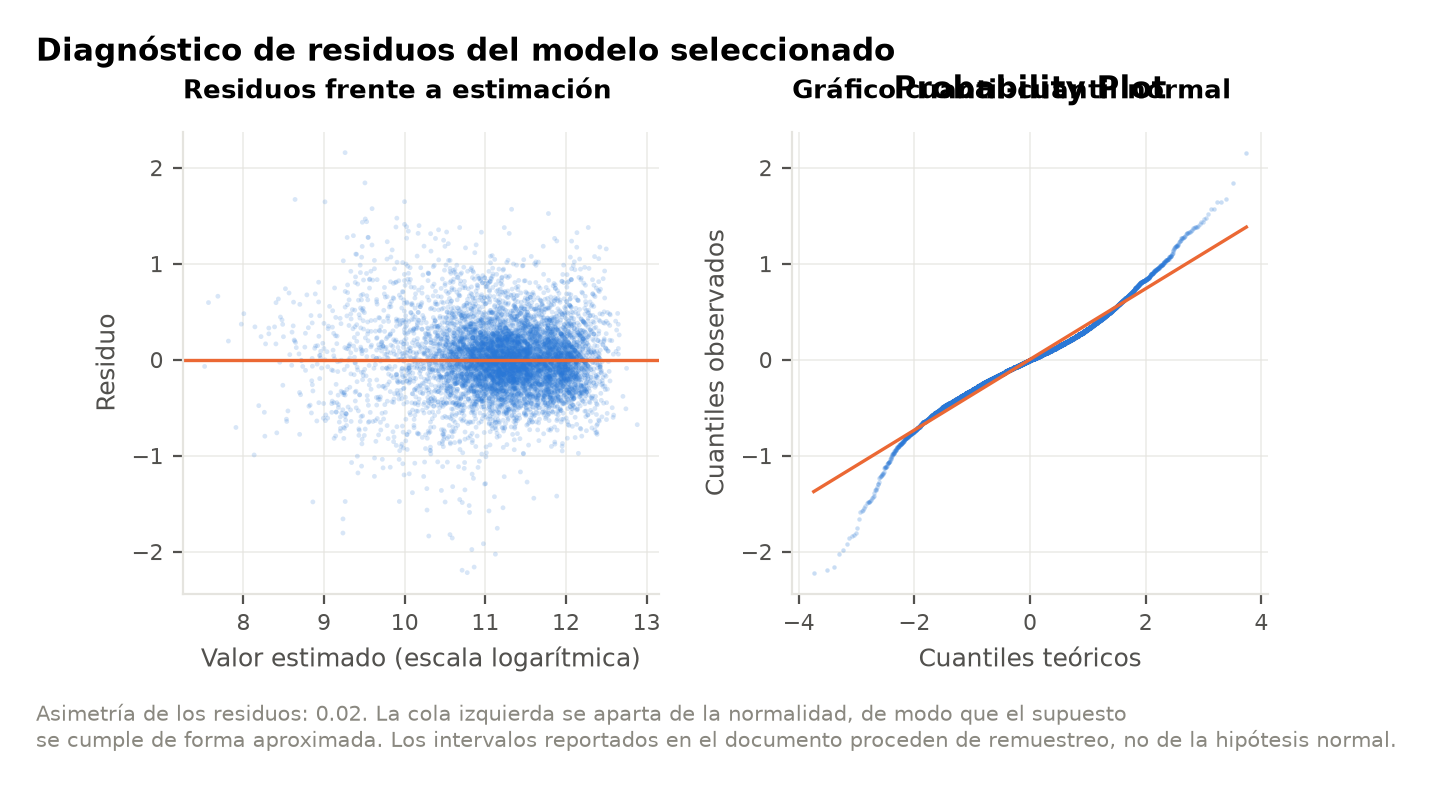
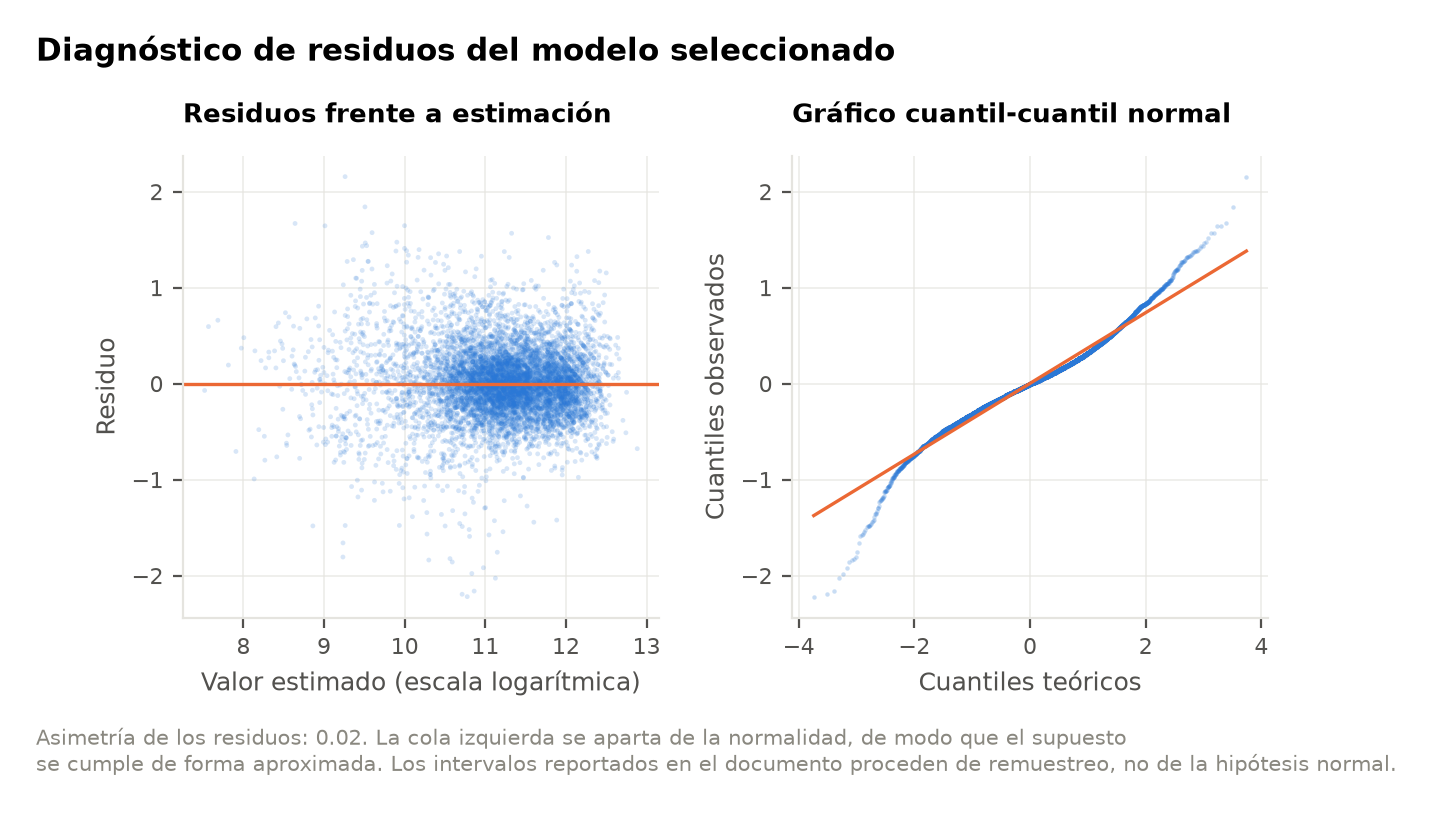
fix: título superpuesto en el gráfico cuantil-cuantil de la figura de residuos

diff --git a/scripts/generar_figuras.py b/scripts/generar_figuras.py
@@ -383,6 +383,8 @@ def fig_residuos(salida, df, resultados: Path):
     ax2.get_lines()[0].set(marker="o", markersize=1.6, alpha=0.25,
                            color=AZUL, markeredgecolor="none")
     ax2.get_lines()[1].set(color=NARANJA, linewidth=1.2)
+    # probplot escribe su propio título centrado («Probability Plot»).
+    ax2.set_title("")
     ax2.set_title("Gráfico cuantil-cuantil normal", loc="left", fontsize=9.5)
     ax2.set_xlabel("Cuantiles teóricos")
     ax2.set_ylabel("Cuantiles observados")
@@ -391,7 +393,7 @@ def fig_residuos(salida, df, resultados: Path):
         ax.grid(alpha=0.6)
         ax.set_axisbelow(True)
     fig.suptitle("Diagnóstico de residuos del modelo seleccionado", x=0.02,
-                 ha="left", fontsize=11, fontweight="bold", y=1.04)
+                 ha="left", fontsize=11, fontweight="bold", y=1.08)
     fig.subplots_adjust(wspace=0.28)
     fig.text(0.02, -0.07,
              f"Asimetría de los residuos: {pd.Series(residuos).skew():.2f}. "
